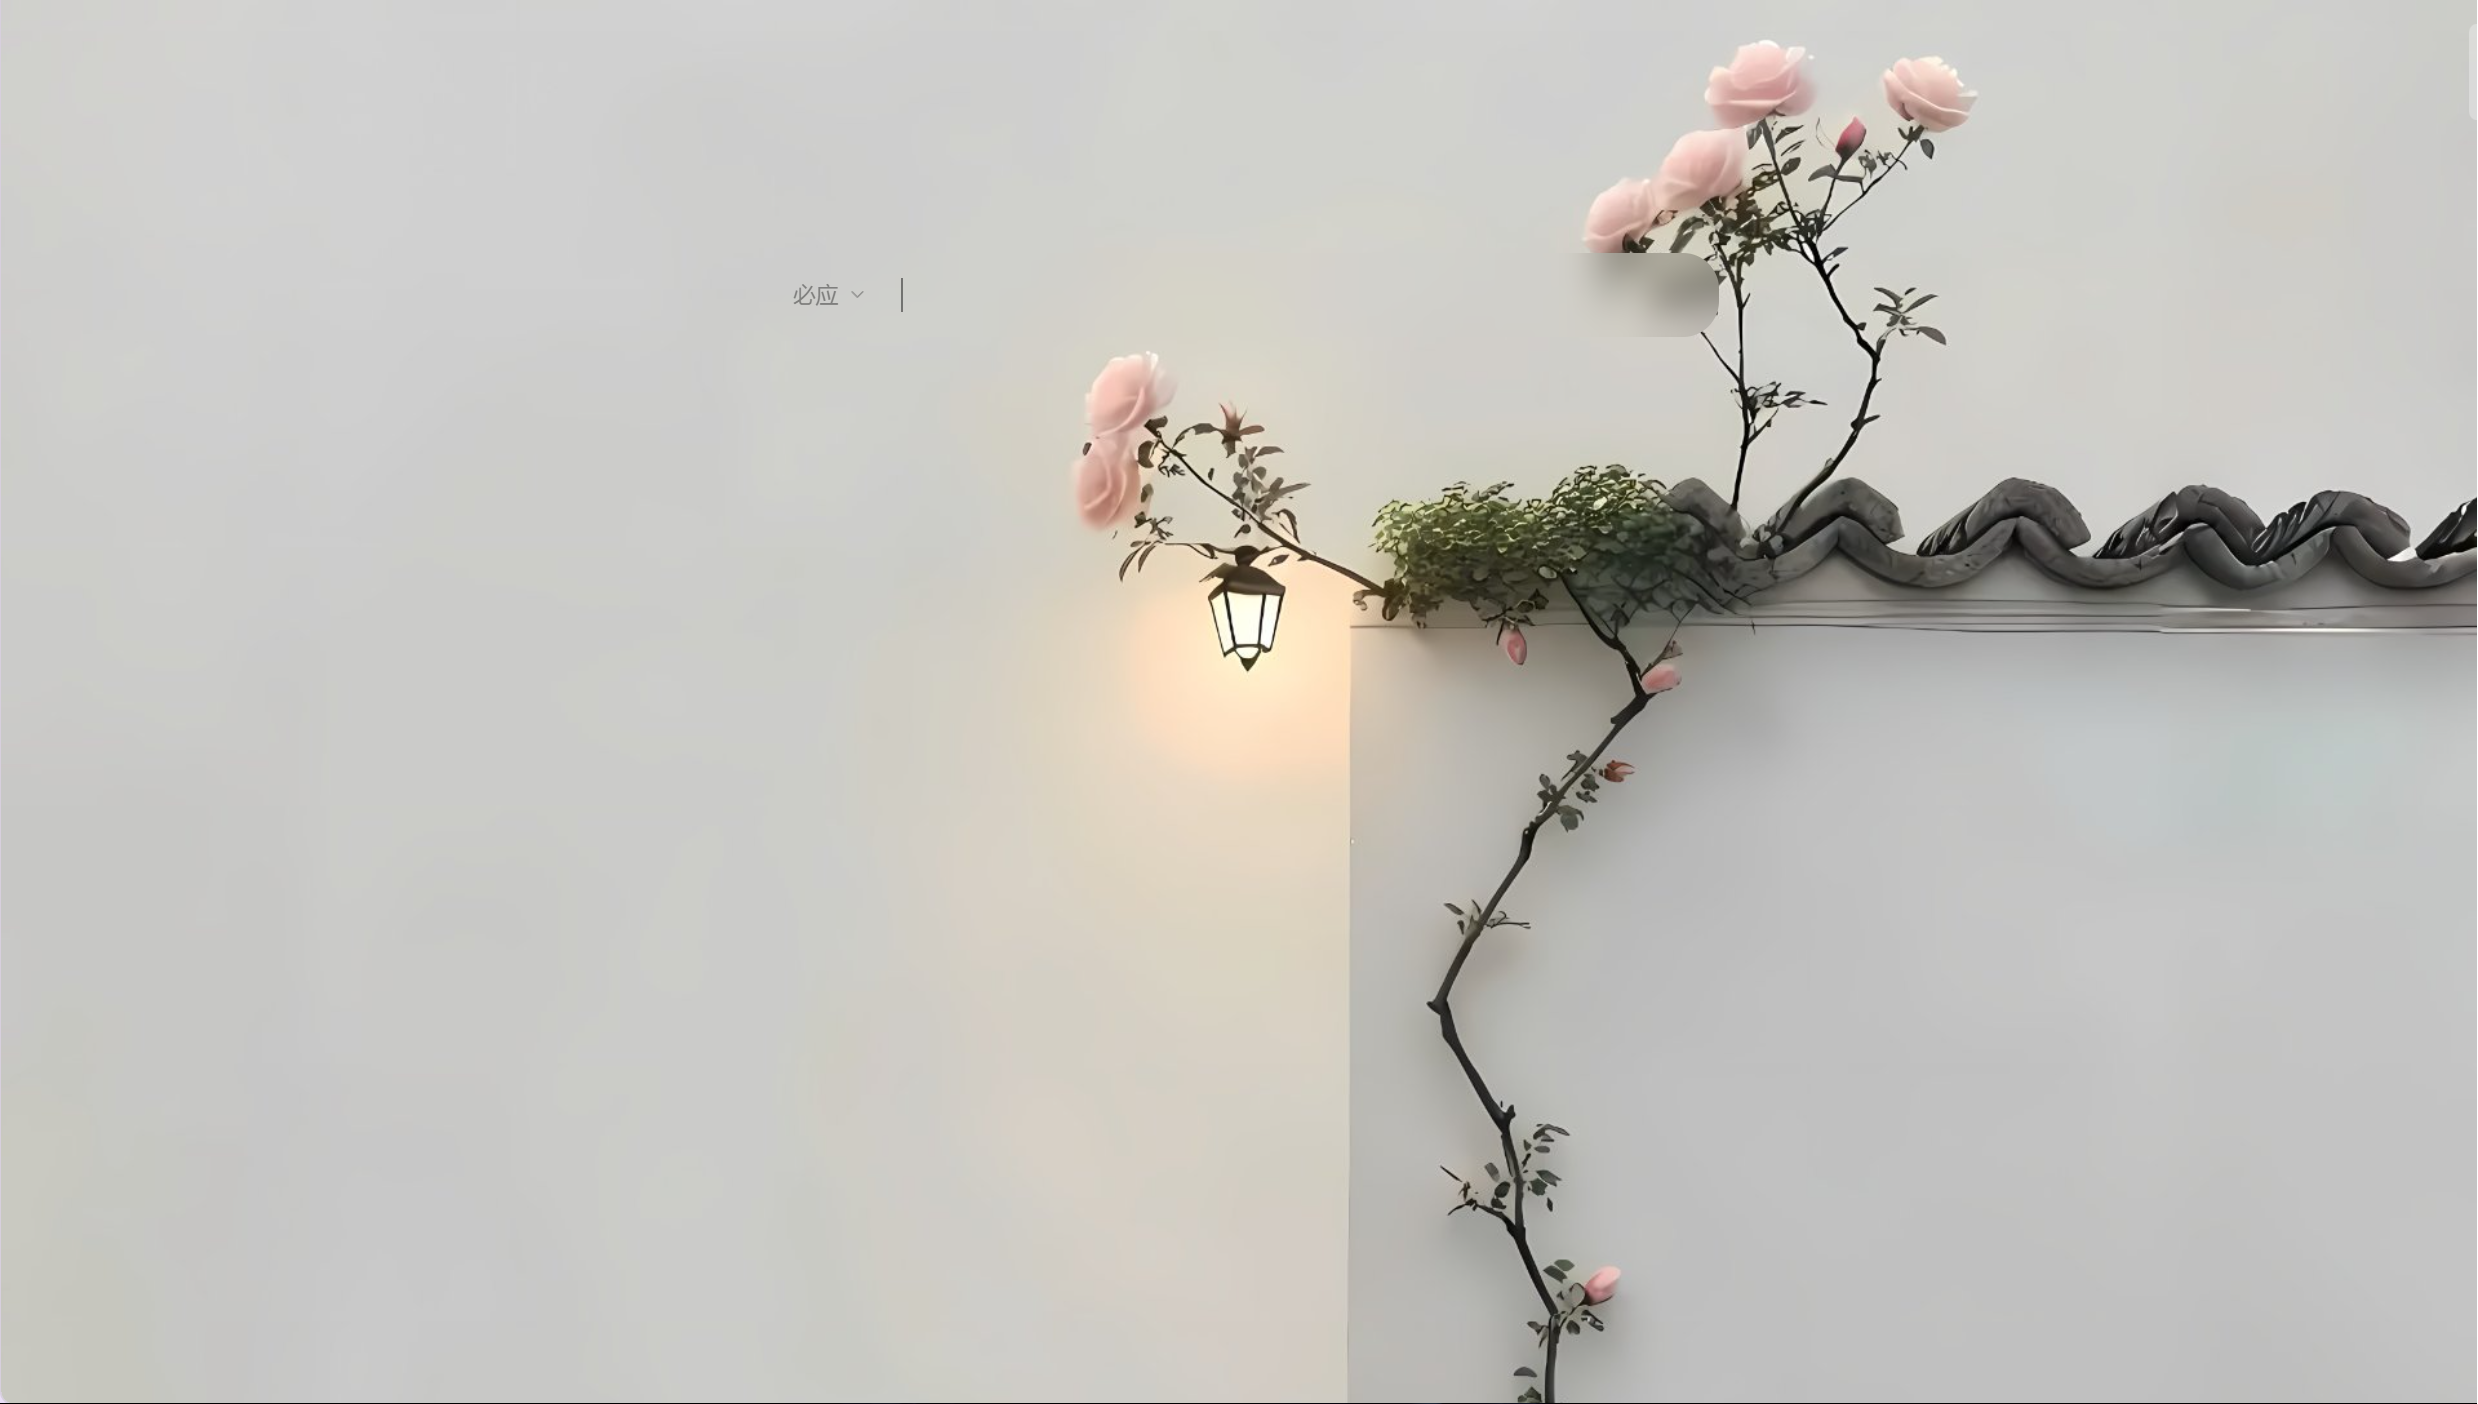
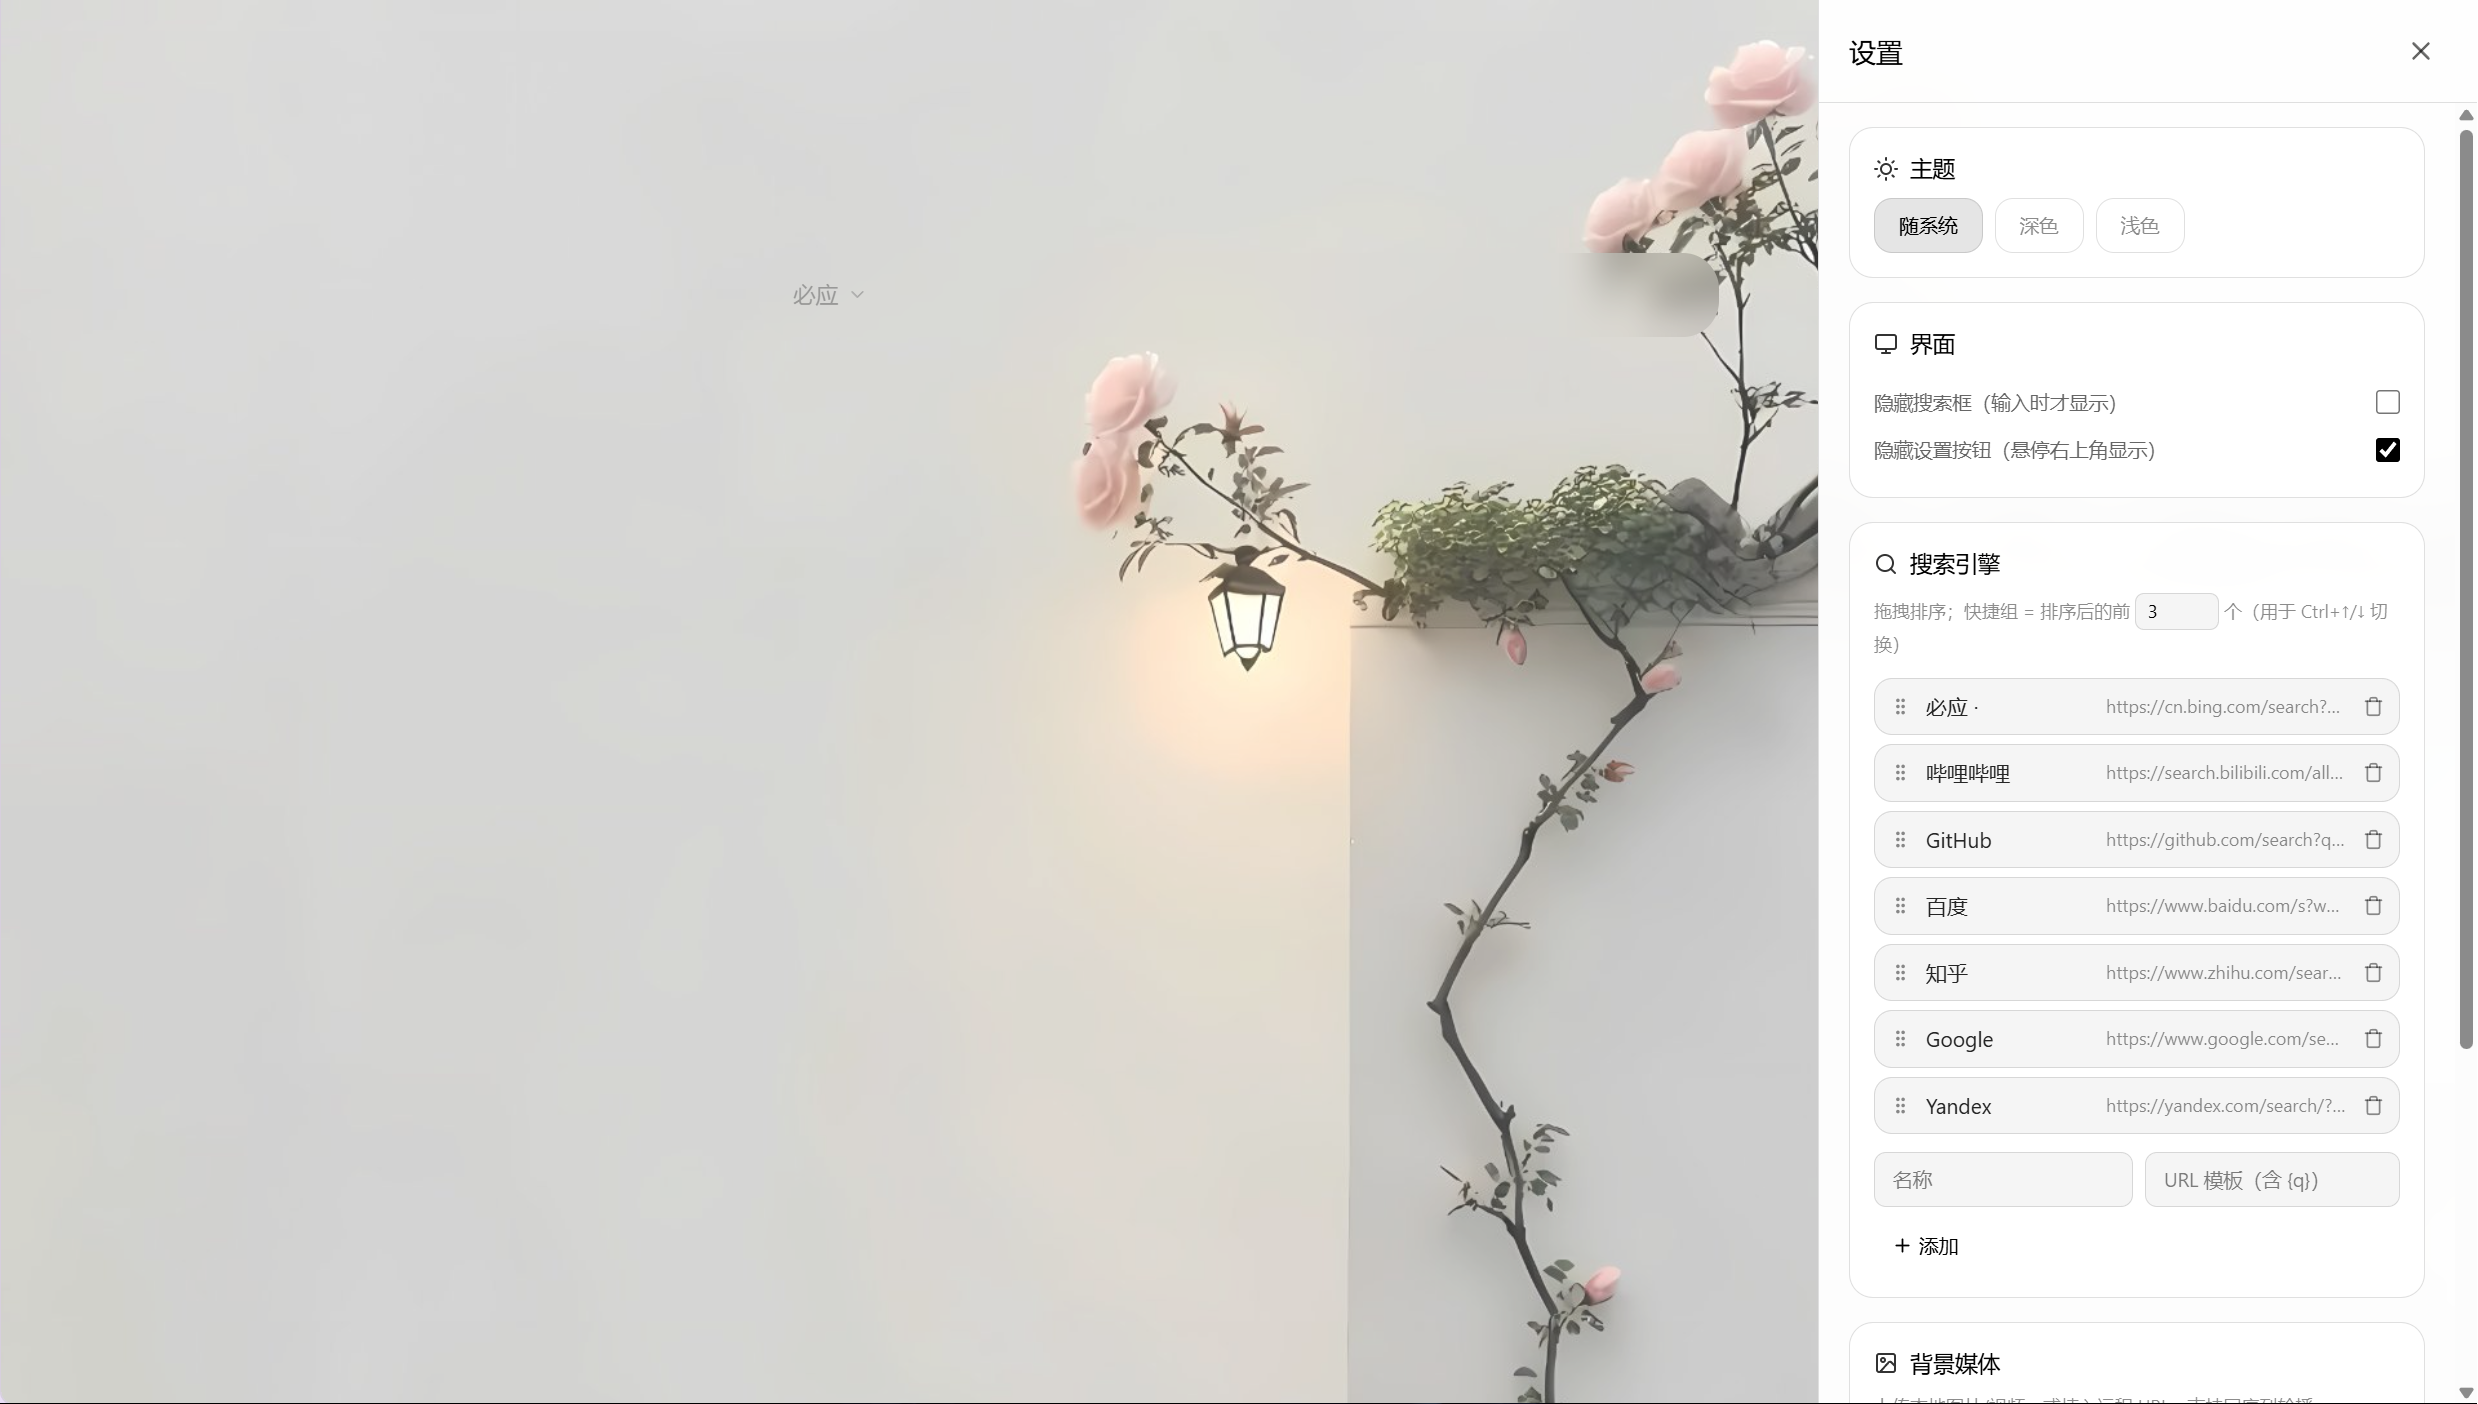
docs: Edge 安装教程 + 英文版 README + 中英跳转链接
- README.md 顶部加语言切换链接, 安装部分拆分 Chrome/Edge 独立教程
- 新增 README_EN.md 完整英文版(含 Edge 教程)
- GitHub 默认展示中文 README.md, 英文经链接跳转

diff --git a/README_EN.md b/README_EN.md
@@ -1,0 +1,100 @@
+# zptap
+
+> 🌐 **中文 ([README.md](README.md))** · English
+
+A minimalist, comfortable new tab page. Opens focused, type to search, one-click direct to your bookmarks and frequently visited sites.
+
+| ![img.png](img.png)   | ![img_1.png](img_1.png) | ![img_2.png](img_2.png) |
+|-----------------------|-------------------------|-------------------------|
+| ![img_3.png](img_3.png) |                         |                         |
+
+## Why zptap
+
+- **Open & focused**：The cursor is already waiting in the search box the moment your new tab opens. Just type — no clicks needed.
+- **Minimal & calm**：By default, only a quiet background. No ads, no feeds, no distractions.
+- **Bookmarks & history, one key away**：As you type, suggestions smartly blend your bookmarks and browsing history, ranked by frecency (frequency × recency × match position × bookmark weight). Same domain collapses to the most-visited entry — **where you want to go is always on top**.
+- **Enter goes straight**：Select a suggestion to open it directly; type a domain (with TLD) to visit it directly; anything else searches with the current engine.
+
+## Features
+
+### Search
+- 7 preset engines: Bing / Bilibili / GitHub / Baidu / Zhihu / Google / Yandex
+- Add custom engines (name + `{q}` URL template), drag to reorder
+- Dropdown picker + **Ctrl+↑/Ctrl+↓** to cycle the quick group
+- Persistent search box or "appear on typing" mode — your choice
+
+### Background
+- Image / video backgrounds, from local upload or remote URL
+- Images auto-compressed client-side; videos stored as-is with auto-captured poster
+- Rotation modes: change every open / timed interval / fixed
+- Per-item checkbox to join rotation, or pin as the fixed background
+- Dark / Light / System theme with smooth transitions
+
+### Details
+- **Four-source favicon fallback**: Chrome local cache → domestic CDN → Google → letter badge, icons never missing
+- **Constraint protection**: keeps at least one rotating item, one fixed item, and one engine — falls back to defaults if you delete everything
+- All data stays local. No account, no upload.
+
+## Installation
+
+### Chrome
+
+1. Open Chrome and go to `chrome://extensions`
+2. Toggle **Developer mode** (top right)
+3. Click **Load unpacked**
+4. Select this repository root (or the extracted zip folder)
+5. Open a new tab and enjoy
+
+### Edge
+
+1. Open Edge and go to `edge://extensions`
+2. Toggle **Developer mode** (left sidebar)
+3. Click **Load unpacked extension**
+4. Select this repository root (or the extracted zip folder)
+5. Open a new tab and enjoy
+
+> Or download the zip from [Releases](https://github.com/zzp1o3/zp-tap-extension/releases) and extract it.
+
+## Permissions
+
+| Permission | Purpose |
+|------------|---------|
+| `bookmarks` | Search bookmarks for direct suggestions |
+| `history` | Search browsing history for direct suggestions |
+| `storage` | Store engines, quick group, theme, wallpaper config |
+| `unlimitedStorage` | Extra quota headroom for IndexedDB media |
+| `favicon` | Enable Chrome built-in favicon API (first fallback source) |
+
+## Directory
+
+```
+manifest.json
+zptop.html                        New tab entry (repo root)
+_locales/                         i18n (zh-CN / en)
+icons/                            Extension icons (derived from icons/zp-tap.png)
+scripts/gen_icons.py              Icon generation script
+src/background/sw.js              MV3 service worker (opens page on icon click)
+src/newtab/
+  launch.html launch.js           Launch page (redirects to zptop.html for instant focus)
+  focus-init.js                   Early focus script
+  main.js                         Main logic
+  tailwind.css                    Tailwind output (committed, ready to use)
+  tailwind.input.css              Tailwind source + theme variables
+  engines.js                      Search engine config
+  storage.js                      IndexedDB + chrome.storage wrapper
+  suggestions.js                  Suggestions, scoring, rendering
+  url-detect.js                   URL detector
+  favicon.js                      Four-source favicon fallback
+  settings/
+    settings.html settings.js     Right-drawer settings panel
+```
+
+## Development
+
+- Pure vanilla HTML/JS, no runtime build. `npm install` is only needed to regenerate Tailwind CSS after editing styles.
+- After editing `tailwind.input.css`: `npm install && npm run build:css`
+- Regenerate icons: `uv run --with=pillow python scripts/gen_icons.py`
+
+## License
+
+MIT

diff --git a/README.md b/README.md
@@ -1,10 +1,12 @@
 # zptap
 
+> 🌐 **[English](README_EN.md)** · 中文
+
 极简舒适的新标签页。打开即聚焦，打字即搜索，一键直达你收藏和常去的地方。
 
-|![img.png](img.png) | ![img_1.png](img_1.png)  | ![img_2.png](img_2.png)  |
-|---|---|---|
-|![img_3.png](img_3.png) |   |   |
+| ![img.png](img.png)     | ![img_1.png](img_1.png)  | ![img_2.png](img_2.png)  |
+|-------------------------|---|---|
+| ![img_3.png](img_3.png) |   |   |
 
 ## 为什么用 zptap
 
@@ -35,11 +37,23 @@
 
 ## 安装
 
-Chrome / Edge → `chrome://extensions` → 开发者模式 → 加载已解压的扩展程序 → 选择仓库根目录。
+### Chrome
 
-或从 [Releases](https://github.com/zzp1o3/zp-tap-extension/releases) 下载 zip 解压后加载。
+1. 打开 Chrome，地址栏输入 `chrome://extensions` 回车
+2. 右上角开启「开发者模式」
+3. 点击「加载已解压的扩展程序」
+4. 选择本仓库根目录（或解压后的 zip 目录）
+5. 打开一个新标签页即可使用
 
-打开新标签页即可使用。
+### Edge
+
+1. 打开 Edge，地址栏输入 `edge://extensions` 回车
+2. 左侧开启「开发人员模式」
+3. 点击「加载解压缩的扩展」
+4. 选择本仓库根目录（或解压后的 zip 目录）
+5. 打开一个新标签页即可使用
+
+> 或从 [Releases](https://github.com/zzp1o3/zp-tap-extension/releases) 下载 zip 解压后加载。
 
 ## 权限
 
